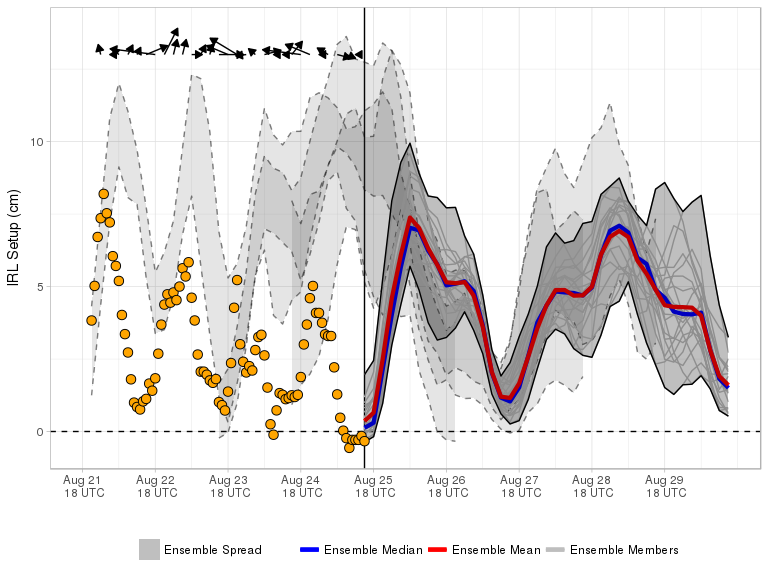
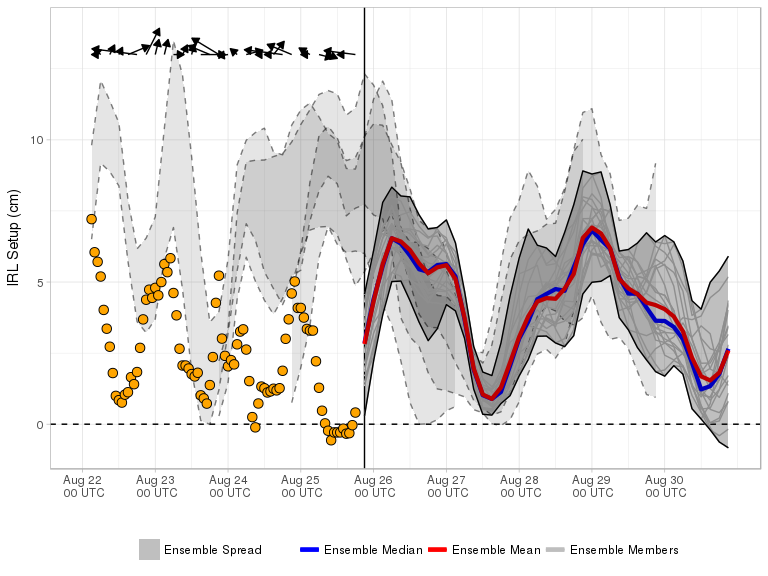
Forecast Update

diff --git a/docs/index.md b/docs/index.md
@@ -1,9 +1,9 @@
-Current Forecast 2018-08-25, Cycle 06 UTC
+Current Forecast 2018-08-25, Cycle 12 UTC
 -----------------------------------------
 
 [![](img/raw_setup.png)](https://fit-winds.github.io/IRLSetup/img/raw_setup.png)
 
-> Forecast valid 2018-08-25 12:18:43.
+> Forecast valid 2018-08-25 14:34:24.
 
 Explanation
 -----------
@@ -23,7 +23,7 @@ Ensemble Forecast System
 cycles. Calculation of the IRL setup is performed shortly after a new
 GEFS cycle is made available on the [data access
 link](http://www.ftp.ncep.noaa.gov/data/nccf/com/gens/prod/). The
-current cycle 2018-08-25 06 UTC 0.5° GEFS mean and median forecasts of
+current cycle 2018-08-25 12 UTC 0.5° GEFS mean and median forecasts of
 setup are represented by the red and blue curves, respectively. Ensemble
 spread from the current and three previous GEFS runs are shaded grey and
 bounded by solid and dashed curves, respectively.
